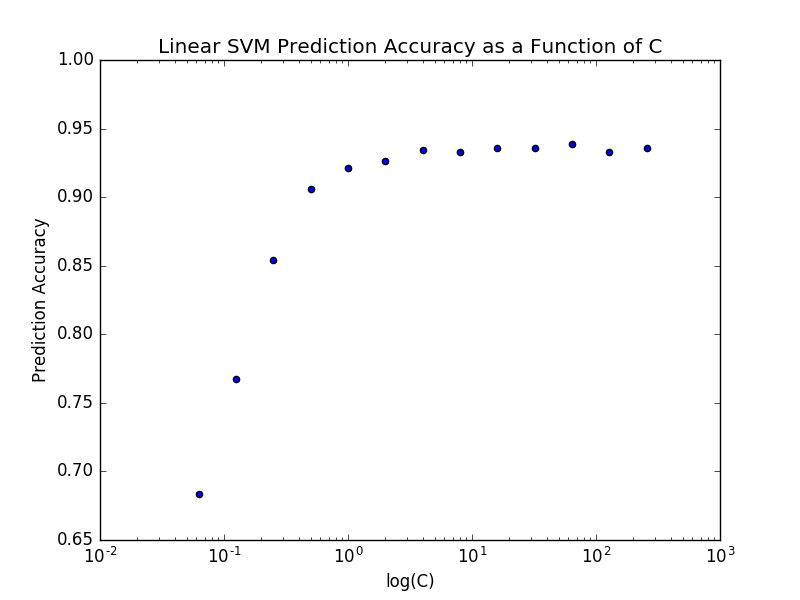
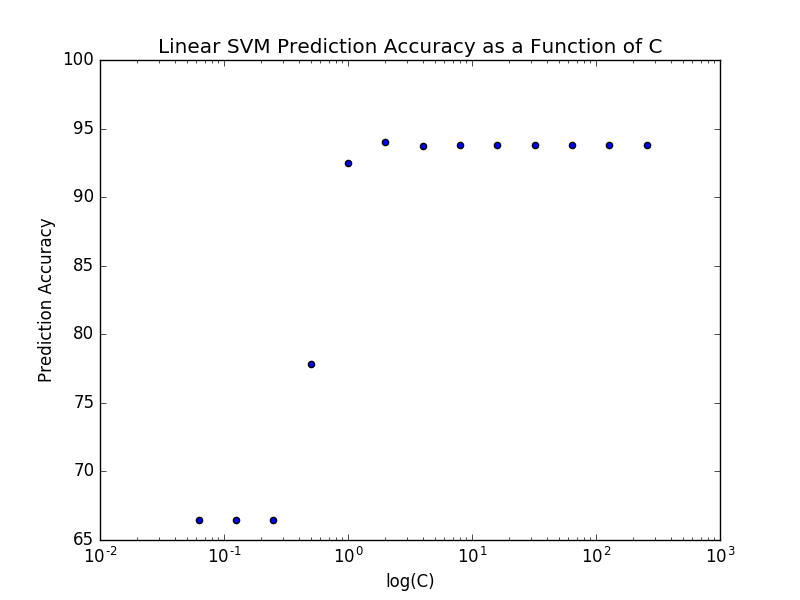
using libsvm directly instead of sklearn

diff --git a/lab3/python/test.py b/lab3/python/test.py
@@ -12,74 +12,42 @@
 # sys.path.append('C:\\Program Files\\LIBSVM\\libsvm-3.21\\python\\')
 import sklearn.svm as SVM
 import numpy as np
-from sklearn.svm import LinearSVC as Linear_SVM
+# from sklearn.svm import LinearSVC as Linear_SVM
 import matplotlib.pyplot as plt
+from svmutil import *
 
 
 TRAINING_DATA = "../data/training_data.txt"
 TESTING_DATA = "../data/test_data.txt"
 PART_1_RESULTS = "../results/part_1.png"
 
-# Read a line of n features and a label from a standard
-# libsvm format input file
-def read_line(line, expected_num_features=8):
+def randomly_partition()
 
-    data = line.split(' ')
-    features = np.zeros(expected_num_features)
-    label = int(data[0])
-
-    for i, feature in enumerate(data[1:]):
-        tup = feature.split(':')
-        features[int(tup[0])-1] = tup[1]
-
-    return label, features
-
-# Given the name of a file with data in standard libsvm compliant
-# format, return an array of labels and an array of feature arrays
-def import_data(file_name):
-    data = []
-    labels = []
-    with open(file_name) as f:
-        for line in f:
-            label, features = read_line(line)
-            labels.append(label)
-            data.append(features)
-    return np.array(labels, dtype=float), np.array(data, dtype=float)
-
-def accuracy(predicted, actual):
-    total = len(predicted)
-    missed = np.count_nonzero(np.array(predicted) - np.array(actual))
-    return 1 - (missed / float(total))
-
-def cross_validation(train_labels, train_data, test_labels, test_data, folds=5):
-
-    SVM.fit(train_data, train_labels, kernel='RBF', C=c)
-    return 1
-
-# Does
-def cv_matrix(C_values, a_values):
-    return 1
+def cross_validation(train_labels, train_data, test_labels, test_data, folds=5, c, a):
+    accuracies = []
+    for fold in range(folds):
+        model = svm_train(train_labels, train_data, "-t 2 -c {0} -g {1}".format(c, a))
+        p_labels, p_acc, p_vals = svm_predict(test_labels, test_data, model)
+        accuracies.append(p_acc[0])
+    return np.mean(accuracies)
 
 
 ############################ Begin Script ############################
 
-
-
-training_labels, training_data = import_data(TRAINING_DATA)
-
-testing_labels, testing_data = import_data(TESTING_DATA)
+train_labels, train_data = svm_read_problem(TRAINING_DATA)
+test_labels, test_data = svm_read_problem(TESTING_DATA)
 
 C_values = [2**x for x in np.arange(-4,9,1)]
+alphas = C_values
 ######################### Part 1: Linear SVMs #########################
+
 
 # accuracies = []
 # for c in C_values:
-#     svm = Linear_SVM(C=c)
-#     svm.fit(training_data, training_labels)
-#     predicted_values = svm.predict(testing_data)
-#     acc = accuracy(predicted_values, testing_labels)
-#     print("C: {0} | Accuracy: {1}".format(c, acc))
-#     accuracies.append(acc)
+#     model = svm_train(training_labels, training_data, "-t 0 -c {0}".format(c))
+#     p_labels, p_acc, p_vals = svm_predict(testing_labels, testing_data, model)
+#     accuracies.append(p_acc[0])
+#
 # plt.scatter(C_values, accuracies)
 # plt.xscale('log')
 # plt.xlabel("log(C)")
@@ -90,3 +58,10 @@ C_values = [2**x for x in np.arange(-4,9,1)]
 
 
 ########################## Part 2: RBF SVMs ###########################
+accuracies = np.zeros((len(C_values), len(alphas)))
+for i,c in enumerate(C_values):
+    for j,a in enumerate(alphas):
+        accuracies[i,j] = cross_validation(train_labels, train_data, test_labels, test_data, c, a)
+
+
+print(accuracies)
